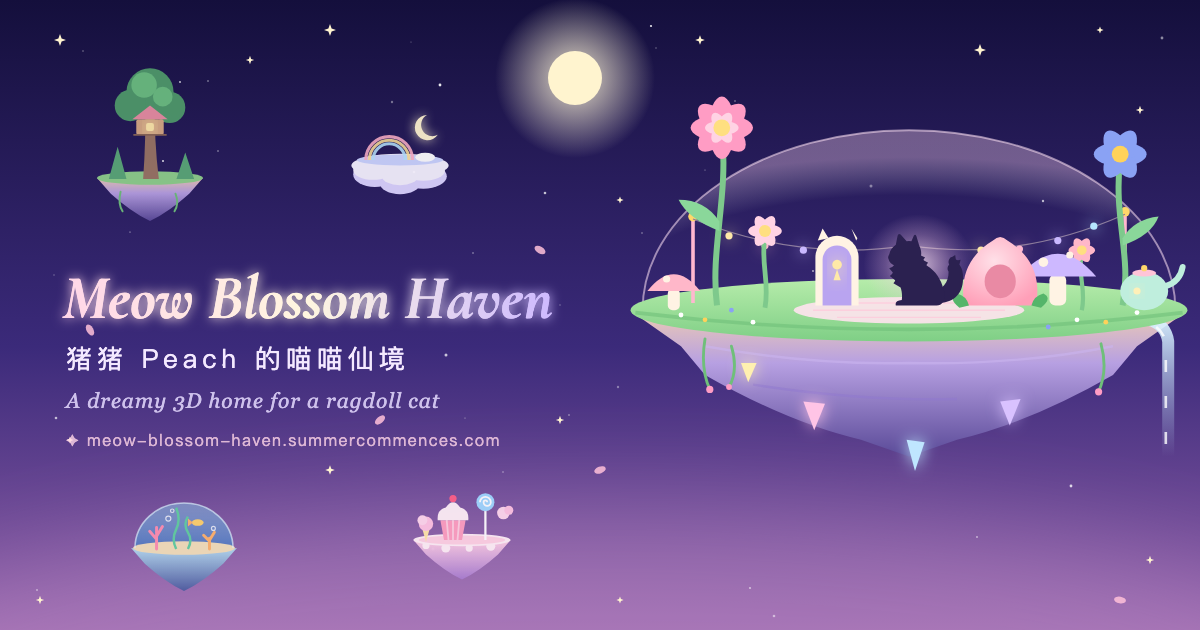
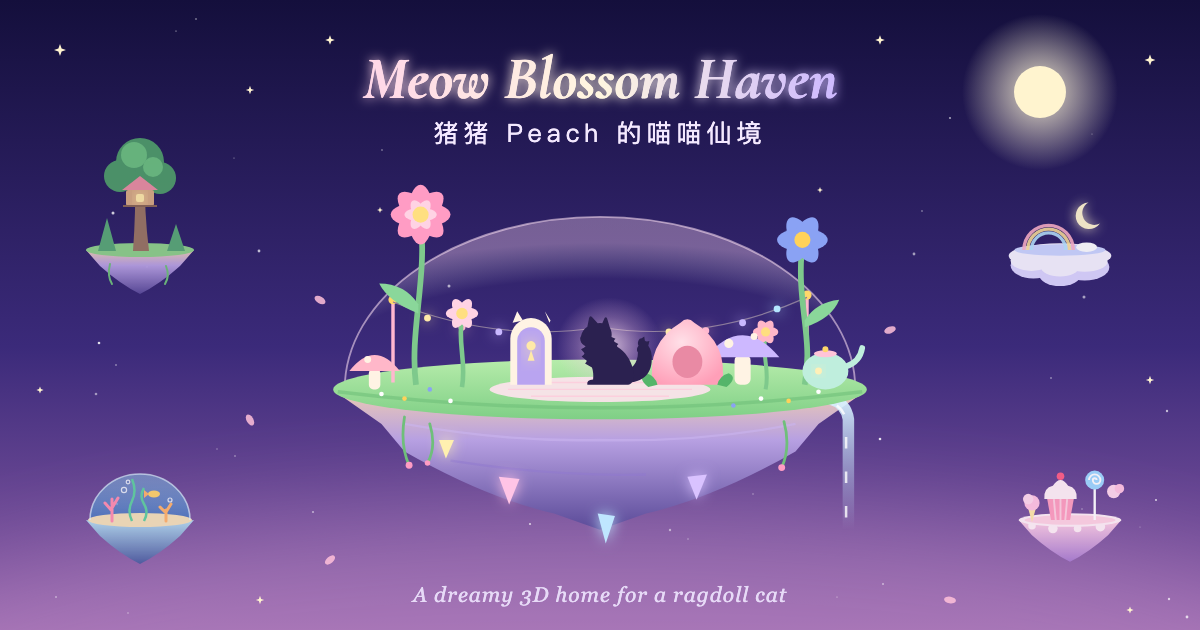
Centre the share image so square crops stay complete
WeChat and other apps crop og:image to a centred square. Recompose
assets/og.png with the title and main island inside the middle 630x630,
the four smaller islands and moon at the sides, and version the image URL
so caches pick up the new art.

diff --git a/index.html b/index.html
@@ -17,7 +17,7 @@
 <meta property="og:title" content="Meow Blossom Haven · 猪猪的喵喵仙境">
 <meta property="og:description" content="A dreamy, interactive 3D home for Peach the ragdoll cat: five floating islands to explore. 布偶猫猪猪的梦幻 3D 浮空岛小屋。">
 <meta property="og:url" content="https://meow-blossom-haven.summercommences.com/">
-<meta property="og:image" content="https://meow-blossom-haven.summercommences.com/assets/og.png">
+<meta property="og:image" content="https://meow-blossom-haven.summercommences.com/assets/og.png?v=2">
 <meta property="og:image:type" content="image/png">
 <meta property="og:image:width" content="1200">
 <meta property="og:image:height" content="630">
